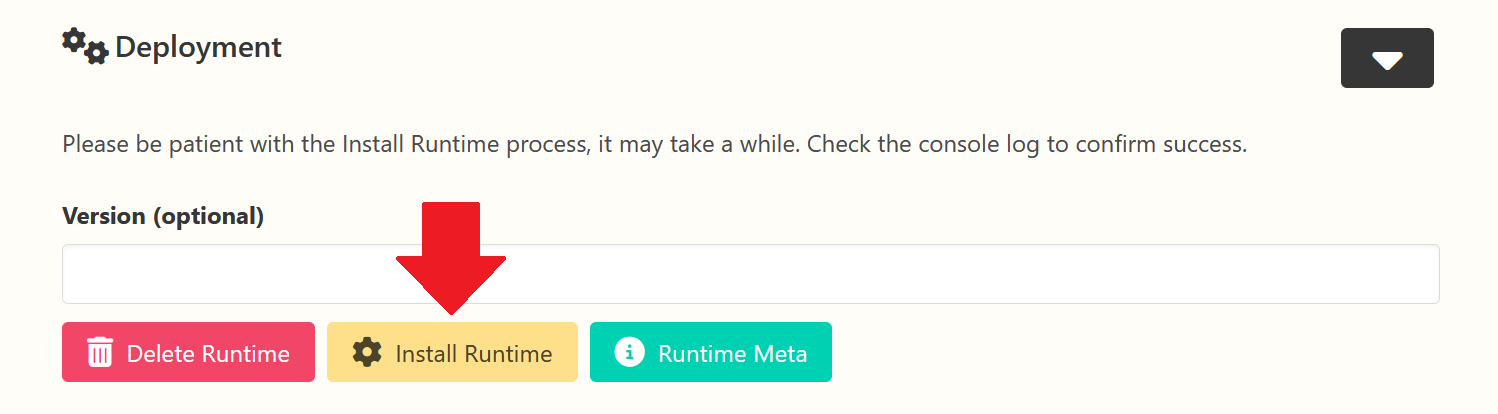
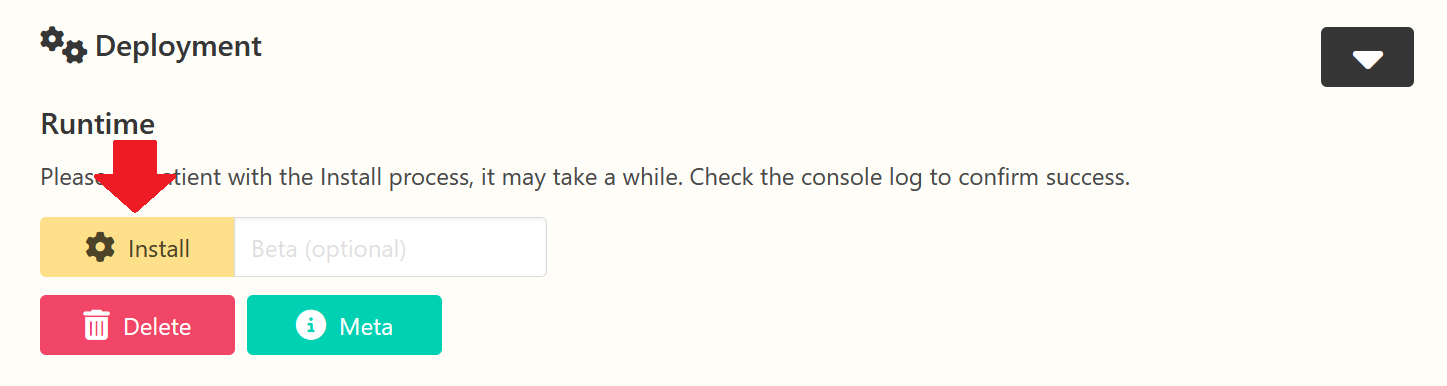
UI improvements for Deployment section

Changed region(s): [[0.0, 0.2798, 0.8397, 0.9326], [0.8708, 0.0622, 0.9952, 0.2487], [0.0311, 0.0622, 0.1866, 0.1554]]

diff --git a/client/web/src/lib/InstallRuntime.svelte b/client/web/src/lib/InstallRuntime.svelte
@@ -11,7 +11,7 @@
   const objectUrls = new ObjectUrls();
   const logLines = new RollingLog();
 
-  export let qualifierName = null;
+  export let qualifierName;
 
   let qualifier = '';
   let endInstallMessage = 'Install Runtime completed. Please check console log output for details.';
@@ -100,35 +100,38 @@
 </script>
 
 
-<div class="content">
-  <p>
-    Please be patient with the Install Runtime process, it may take a while. Check the console log to confirm success.
-  </p>
-</div>
-
-<div class="block">
-  {#if qualifierName}
-    <div class="field">
-      <label for="installRuntimeQualifier" class="label"
-             title="Set to appropriate version/beta/tag to install desired non-stable version">
-        {qualifierName}</label>
-      <div class="control pr-6">
-        <input id="installRuntimeQualifier" class="input" type="text"
-               disabled={cannotProcess} bind:value={qualifier}>
-      </div>
+<div class="content pb-1">
+  <h3 class="title is-5 mb-3">Runtime</h3>
+  <p>Please be patient with the Install process, it may take a while. Check the console log to confirm success.</p>
+  <div class="field has-addons">
+    <div class="control">
+      <button name="install-runtime" class="button is-warning" title="Install game server"
+              disabled={cannotProcess} on:click={installRuntime}>
+        <i class="fa fa-gear fa-lg"></i>&nbsp; Install</button>
     </div>
-  {/if}
+    <div class="control">
+      <input class="input" type="text" placeholder="{qualifierName} (optional)"
+             title="Optionally specify a {qualifierName.toLowerCase()} to install"
+             disabled={cannotProcess} bind:value={qualifier}>
+    </div>
+  </div>
   <div class="field">
     <div class="control buttons">
-      <button name="wipe-runtime" title="Delete Runtime" class="button is-danger"
+      <button name="wipe-runtime" class="button is-danger"
+              title="Delete installed game server"
               disabled={cannotProcess} on:click={wipeRuntime}>
-        <i class="fa fa-trash-can fa-lg"></i>&nbsp;&nbsp;Delete Runtime</button>
-      <button name="install-runtime" title="Install Runtime" class="button is-warning"
-              disabled={cannotProcess} on:click={installRuntime}>
-        <i class="fa fa-gear fa-lg"></i>&nbsp;&nbsp;Install Runtime</button>
-      <button name="runtime-meta" title="Runtime Runtime" class="button is-primary"
+        <i class="fa fa-trash-can fa-lg"></i>&nbsp; Delete</button>
+      <button name="runtime-meta" class="button is-primary"
+              title="View information about the currently installed game server"
               on:click={runtimeMeta}>
-        <i class="fa fa-circle-info fa-lg"></i>&nbsp;&nbsp;Runtime Meta</button>
+        <i class="fa fa-circle-info fa-lg"></i>&nbsp; Meta</button>
     </div>
   </div>
 </div>
+
+
+<style>
+  .button {
+    width: 130px;
+  }
+</style>

diff --git a/client/web/src/routes/guides/servers/WebappServerInstall.svelte b/client/web/src/routes/guides/servers/WebappServerInstall.svelte
@@ -43,10 +43,9 @@
 <div class="content">
   <p><span class="step-title"></span>
     Welcome to the control panel for your new instance! An instance is just a container for a game server.
-    You can now install the actual server using this page.
-    Scroll down and find the <span class="has-text-weight-bold">Deployment</span> section.
-    Expand it using the black button on the right.
-    Now click the <span class="has-text-weight-bold">Install Runtime</span> button.
+    You can now install the actual server using this page. Scroll down and find the
+    <span class="has-text-weight-bold">Deployment</span> section. Expand it using the black button on the right.
+    Now click the <span class="has-text-weight-bold">Install</span> button.
   </p>
   <figure class="image max-1024 is-bordered">
     <img src="/assets/guides/games/install_start.png" alt="Start install runtime" loading="lazy" />

diff --git a/client/web/src/lib/DeploymentActions.svelte b/client/web/src/lib/DeploymentActions.svelte
@@ -30,11 +30,12 @@
 </script>
 
 
-<div class="block">
+<div class="content">
+  <h3 class="title is-5 mb-3">World</h3>
   <table class="table"><tbody>
     {#each actions as action}
       <tr>
-        <td>
+        <td class="button-column">
           <button title={action.name} class="button is-danger is-fullwidth"
                   name={action.key} disabled={cannotAction} on:click={doAction}>
             <i class="fa {action.icon ? action.icon : 'fa-burst'} fa-lg"></i>&nbsp; {action.name}</button>
@@ -44,3 +45,10 @@
     {/each}
   </tbody></table>
 </div>
+
+
+<style>
+  .button-column {
+    width: 20%;
+  }
+</style>

diff --git a/client/web/src/routes/servers/starbound/+page.svelte b/client/web/src/routes/servers/starbound/+page.svelte
@@ -71,7 +71,7 @@
         <LogFiles allowDelete={1} sorter={function(a, b) { return a.name.localeCompare(b.name); }} />
       </Collapsible>
       <Collapsible icon="fa-gears" title="Deployment">
-        <InstallRuntime qualifierName="Beta (optional)" />
+        <InstallRuntime qualifierName="Beta" />
         <DeploymentActions actions={deploymentActions} />
       </Collapsible>
       <Collapsible icon="fa-box-archive" title="Backups">

diff --git a/client/web/src/routes/servers/projectzomboid/+page.svelte b/client/web/src/routes/servers/projectzomboid/+page.svelte
@@ -152,7 +152,7 @@
         <LogFiles allowDelete={1} />
       </Collapsible>
       <Collapsible icon="fa-gears" title="Deployment">
-        <InstallRuntime qualifierName="Beta (optional)" />
+        <InstallRuntime qualifierName="Beta" />
         <DeploymentActions actions={deploymentActions} />
       </Collapsible>
       <Collapsible icon="fa-file-zipper" title="Autobackups">

diff --git a/client/web/src/routes/servers/csii/+page.svelte b/client/web/src/routes/servers/csii/+page.svelte
@@ -72,7 +72,7 @@
         <LogFiles allowDelete={1} />
       </Collapsible>
       <Collapsible icon="fa-gears" title="Deployment">
-        <InstallRuntime qualifierName="Version (optional)" />
+        <InstallRuntime qualifierName="Beta" />
         <DeploymentActions actions={deploymentActions} />
       </Collapsible>
       <Collapsible icon="fa-box-archive" title="Backups">

diff --git a/client/web/src/routes/servers/sevendaystodie/+page.svelte b/client/web/src/routes/servers/sevendaystodie/+page.svelte
@@ -67,7 +67,7 @@
         <LogFiles allowDelete={1} />
       </Collapsible>
       <Collapsible icon="fa-gears" title="Deployment">
-        <InstallRuntime qualifierName="Beta (optional)" />
+        <InstallRuntime qualifierName="Beta" />
         <DeploymentActions actions={deploymentActions} />
       </Collapsible>
       <Collapsible icon="fa-box-archive" title="Backups">

diff --git a/client/web/src/routes/servers/testserver/+page.svelte b/client/web/src/routes/servers/testserver/+page.svelte
@@ -55,7 +55,7 @@
         <LogFiles allowDelete={1} />
       </Collapsible>
       <Collapsible icon="fa-gears" title="Deployment">
-        <InstallRuntime qualifierName="Beta (optional)" />
+        <InstallRuntime qualifierName="Version" />
       </Collapsible>
       <Collapsible icon="fa-box-archive" title="Backups">
         <BackupRestoreActions hasWorld={false} />

diff --git a/client/web/src/routes/servers/factorio/+page.svelte b/client/web/src/routes/servers/factorio/+page.svelte
@@ -100,7 +100,7 @@
         <LogFiles />
       </Collapsible>
       <Collapsible icon="fa-gears" title="Deployment">
-        <InstallRuntime qualifierName="Version (optional)" />
+        <InstallRuntime qualifierName="Version" />
         <DeploymentActions actions={deploymentActions} />
       </Collapsible>
       <Collapsible icon="fa-file-zipper" title="Autosaves">

diff --git a/client/web/src/routes/servers/unturned/+page.svelte b/client/web/src/routes/servers/unturned/+page.svelte
@@ -71,7 +71,7 @@
         <LogFiles />
       </Collapsible>
       <Collapsible icon="fa-gears" title="Deployment">
-        <InstallRuntime qualifierName="Beta (optional)" />
+        <InstallRuntime qualifierName="Beta" />
         <DeploymentActions actions={deploymentActions} />
       </Collapsible>
       <Collapsible icon="fa-box-archive" title="Backups">

diff --git a/core/system/system.py b/core/system/system.py
@@ -77,7 +77,7 @@ class SystemService:
             shutdowns.append(svrsvc.ServerService.shutdown(subcontext, self))
             destroys.append(self._context.destroy_subcontext(subcontext))
         await asyncio.gather(*shutdowns)
-        await asyncio.sleep(0.2)  # TODO need to find a real solution sometime
+        await asyncio.sleep(0.25)  # TODO need to find a real solution sometime
         await asyncio.gather(*destroys)
 
     def instances_info(self, baseurl: str) -> dict:
